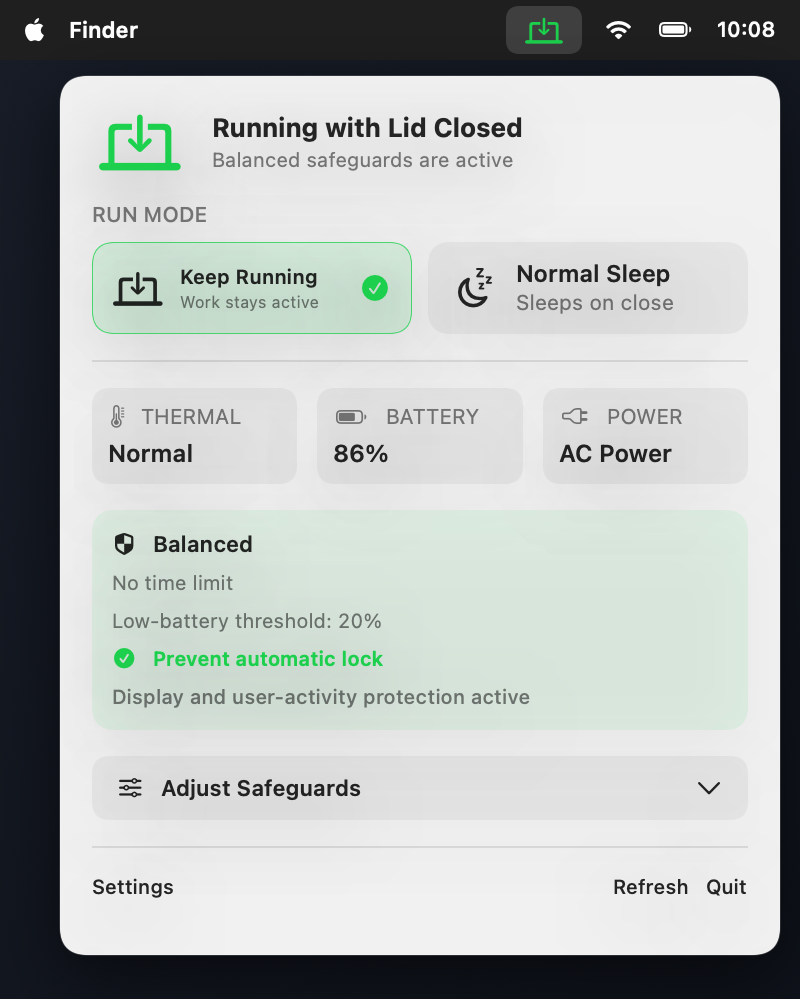
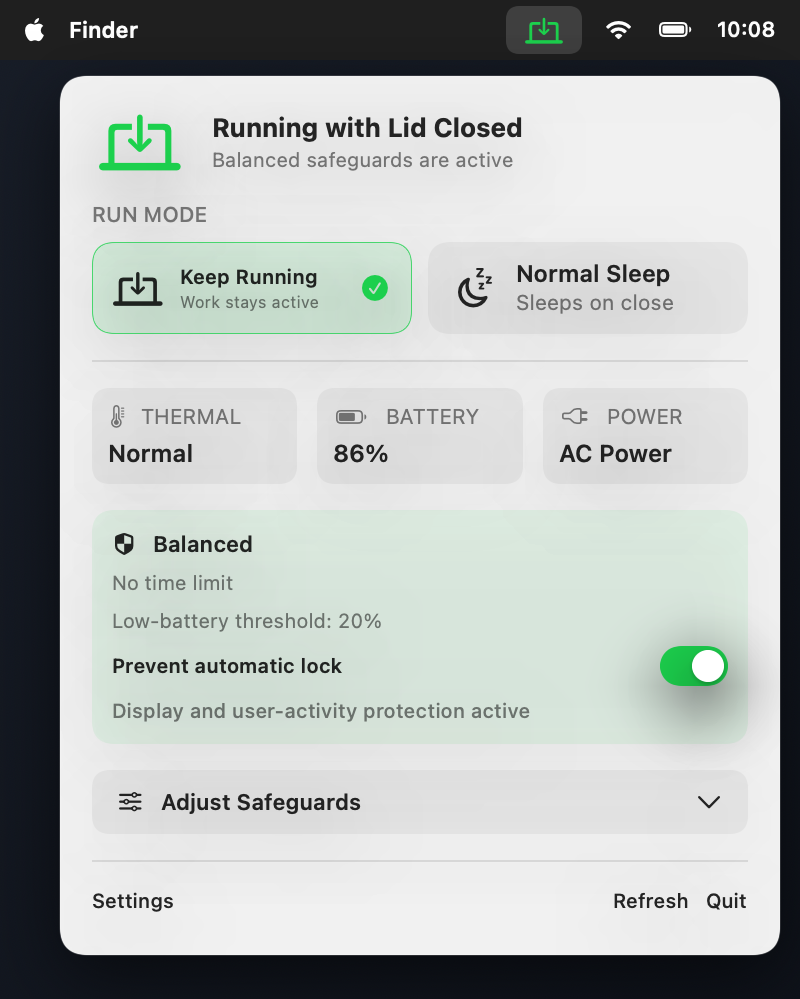
Update automatic lock feature presentation

diff --git a/scripts/render-social-card.swift b/scripts/render-social-card.swift
@@ -4,22 +4,60 @@ import SwiftUI
 private struct FeaturePill: View {
     let icon: String
     let title: String
+    var highlighted = false
 
     var body: some View {
         Label(title, systemImage: icon)
             .font(.system(size: 13, weight: .semibold, design: .rounded))
-            .foregroundStyle(Color.white.opacity(0.82))
+            .foregroundStyle(highlighted ? Color(red: 0.25, green: 1.0, blue: 0.5) : Color.white.opacity(0.82))
             .padding(.horizontal, 14)
             .padding(.vertical, 9)
-            .background(Color.white.opacity(0.08), in: Capsule())
+            .background(
+                highlighted ? Color(red: 0.08, green: 0.82, blue: 0.30).opacity(0.14) : Color.white.opacity(0.08),
+                in: Capsule()
+            )
             .overlay {
-                Capsule().stroke(Color.white.opacity(0.12), lineWidth: 1)
+                Capsule().stroke(
+                    highlighted ? Color(red: 0.12, green: 0.9, blue: 0.36).opacity(0.45) : Color.white.opacity(0.12),
+                    lineWidth: 1
+                )
             }
     }
 }
 
+private struct SocialCardCopy {
+    let headline: String
+    let detail: String
+    let timedRecovery: String
+    let preventAutomaticLock: String
+    let lowBattery: String
+    let thermalSafeguards: String
+    let footer: String
+
+    static let english = SocialCardCopy(
+        headline: "Close the lid.\nKeep the work running.",
+        detail: "Run agents, remote access, builds, and downloads\nwith optional automatic-lock prevention.",
+        timedRecovery: "Timed recovery",
+        preventAutomaticLock: "Prevent auto-lock",
+        lowBattery: "Low battery",
+        thermalSafeguards: "Thermal safeguards",
+        footer: "macOS 13+  ·  Apple Silicon  ·  Public preview"
+    )
+
+    static let chinese = SocialCardCopy(
+        headline: "放心合盖。\n任务继续运行。",
+        detail: "Agent、手机远控、构建和下载不中断，\n并可按需防止自动锁屏。",
+        timedRecovery: "定时恢复",
+        preventAutomaticLock: "防止自动锁屏",
+        lowBattery: "低电量保护",
+        thermalSafeguards: "热状态保护",
+        footer: "macOS 13+  ·  Apple Silicon  ·  Public preview"
+    )
+}
+
 private struct SocialCard: View {
     let screenshot: NSImage
+    let copy: SocialCardCopy
 
     var body: some View {
         ZStack {
@@ -52,7 +90,7 @@ private struct SocialCard: View {
 
                     Spacer().frame(height: 52)
 
-                    Text("Close the lid.\nKeep the work running.")
+                    Text(copy.headline)
                         .font(.system(size: 46, weight: .heavy, design: .rounded))
                         .tracking(-1.2)
                         .foregroundStyle(.white)
@@ -60,8 +98,8 @@ private struct SocialCard: View {
 
                     Spacer().frame(height: 24)
 
-                    Text("Run local agents, remote access, builds,\nand downloads after closing the lid.")
-                        .font(.system(size: 20, weight: .medium, design: .rounded))
+                    Text(copy.detail)
+                        .font(.system(size: 18, weight: .medium, design: .rounded))
                         .foregroundStyle(Color.white.opacity(0.68))
                         .lineSpacing(5)
                         .fixedSize(horizontal: false, vertical: true)
@@ -69,18 +107,22 @@ private struct SocialCard: View {
                     Spacer().frame(height: 32)
 
                     HStack(spacing: 10) {
-                        FeaturePill(icon: "timer", title: "Timed recovery")
-                        FeaturePill(icon: "battery.25percent", title: "Low battery")
+                        FeaturePill(icon: "timer", title: copy.timedRecovery)
+                        FeaturePill(
+                            icon: "lock.open",
+                            title: copy.preventAutomaticLock,
+                            highlighted: true
+                        )
                     }
                     Spacer().frame(height: 10)
                     HStack(spacing: 10) {
-                        FeaturePill(icon: "thermometer.high", title: "Thermal safeguards")
-                        FeaturePill(icon: "iphone.and.arrow.forward", title: "Remote access")
+                        FeaturePill(icon: "battery.25percent", title: copy.lowBattery)
+                        FeaturePill(icon: "thermometer.high", title: copy.thermalSafeguards)
                     }
 
                     Spacer()
 
-                    Text("macOS 13+  ·  Apple Silicon  ·  Public preview")
+                    Text(copy.footer)
                         .font(.system(size: 13, weight: .semibold, design: .rounded))
                         .foregroundStyle(Color.white.opacity(0.42))
                 }
@@ -123,11 +165,19 @@ struct SocialCardRenderer {
     @MainActor
     static func main() throws {
         let root = FileManager.default.currentDirectoryPath
-        let source = "\(root)/docs/assets/lidguard-expanded-en.png"
-        let destination = "\(root)/docs/assets/lidguard-social-card.png"
-        guard let screenshot = NSImage(contentsOfFile: source) else {
+        let englishSource = "\(root)/docs/assets/lidguard-expanded-en.png"
+        let chineseSource = "\(root)/docs/assets/lidguard-expanded.png"
+        guard let englishScreenshot = NSImage(contentsOfFile: englishSource),
+              let chineseScreenshot = NSImage(contentsOfFile: chineseSource) else {
             throw CocoaError(.fileReadNoSuchFile)
         }
-        try render(SocialCard(screenshot: screenshot), to: destination)
+        try render(
+            SocialCard(screenshot: englishScreenshot, copy: .english),
+            to: "\(root)/docs/assets/lidguard-social-card.png"
+        )
+        try render(
+            SocialCard(screenshot: chineseScreenshot, copy: .chinese),
+            to: "\(root)/docs/assets/lidguard-social-card-zh.png"
+        )
     }
 }

diff --git a/scripts/render-readme-screenshots.swift b/scripts/render-readme-screenshots.swift
@@ -341,9 +341,12 @@ private struct ActiveSession: View {
             Text("\(copy.lowBatteryThreshold): \(threshold)%")
                 .font(.caption)
                 .foregroundStyle(.secondary)
-            Label(copy.preventAutomaticLock, systemImage: "checkmark.circle.fill")
-                .font(.caption.weight(.semibold))
-                .foregroundStyle(Palette.green)
+            HStack(spacing: 8) {
+                Text(copy.preventAutomaticLock)
+                    .font(.caption.weight(.semibold))
+                Spacer()
+                EnabledSwitchPreview()
+            }
             Text(copy.automaticLockActive)
                 .font(.caption2)
                 .foregroundStyle(.secondary)
@@ -351,6 +354,21 @@ private struct ActiveSession: View {
         .padding(10)
         .frame(maxWidth: .infinity, alignment: .leading)
         .background(Palette.green.opacity(dark ? 0.11 : 0.08), in: RoundedRectangle(cornerRadius: 10))
+    }
+}
+
+private struct EnabledSwitchPreview: View {
+    var body: some View {
+        Capsule()
+            .fill(Palette.green)
+            .frame(width: 34, height: 20)
+            .overlay(alignment: .trailing) {
+                Circle()
+                    .fill(.white)
+                    .frame(width: 16, height: 16)
+                    .padding(2)
+                    .shadow(color: .black.opacity(0.18), radius: 1, y: 1)
+            }
     }
 }
 

diff --git a/README.md b/README.md
@@ -4,7 +4,7 @@
 
 # LidGuard
 
-**Keep your Mac running with the lid closed, so Codex tasks and remote access from your phone can continue.**
+**Close the lid without stopping your work, and optionally prevent unattended automatic locking during the session.**
 
 [![macOS 13+](https://img.shields.io/badge/macOS-13%2B-111111?logo=apple)](https://github.com/aermin/LidGuard)
 [![Apple Silicon](https://img.shields.io/badge/Apple%20Silicon-arm64-0A84FF)](https://github.com/aermin/LidGuard)
@@ -12,7 +12,7 @@
 [![Tests 22 passing](https://img.shields.io/badge/tests-22%20passing-22C55E)](https://github.com/aermin/LidGuard)
 [![License MIT](https://img.shields.io/badge/license-MIT-2EA44F)](LICENSE)
 
-Menu bar app · Time, battery, and thermal safeguards · CLI · No virtual display · No agent hooks
+Lid-closed operation · Optional automatic-lock prevention · Time, battery, and thermal safeguards · CLI
 
 </div>
 
@@ -20,9 +20,9 @@ Menu bar app · Time, battery, and thermal safeguards · CLI · No virtual displ
   <img src="docs/assets/lidguard-open-laptop-candid.jpg" alt="A developer carrying a partially open laptop on the street so a coding task can keep running" width="560">
 </p>
 
-<p align="center"><sub>Ever carried your Mac like this just to keep a coding task alive? LidGuard lets you close the lid and keep working under timer, battery, and thermal safeguards.</sub></p>
+<p align="center"><sub>Ever carried your Mac like this just to keep a coding task alive? LidGuard lets you close the lid, keep the work running, and optionally prevent unattended automatic locking.</sub></p>
 
-By default, macOS sleeps when the lid closes, interrupting Codex tasks, builds, downloads, and remote access. LidGuard gives you two clear modes and can automatically restore normal sleep when a timer expires, the battery runs low, or macOS reports serious thermal pressure.
+By default, macOS sleeps when the lid closes, interrupting Codex tasks, builds, downloads, and remote access. Even while the Mac remains awake, an automatic screen lock can interrupt unattended remote access. LidGuard manages both boundaries explicitly: lid-close operation for the session, plus optional automatic-lock prevention when requested.
 
 - **Keep Running with Lid Closed**: keeps Codex tasks and other background work running, while supported remote-control software remains available.
 - **Normal Lid Sleep**: restores the default macOS behavior, so the Mac sleeps when the lid closes.
@@ -41,6 +41,9 @@ LidGuard changes lid-close sleep behavior and can optionally prevent automatic s
 3. Try to open LidGuard from Applications. macOS may block it because the preview uses an ad-hoc signature.
 4. Open **System Settings → Privacy & Security**, scroll to **Security**, click **Open Anyway**, authenticate, and confirm **Open**.
 5. In LidGuard, click **Install Helper (`安装 Helper`)** and approve the one-time administrator prompt.
+
+> [!NOTE]
+> The currently published `v1.0.0-preview.1` package predates automatic-lock prevention. Build the current `main` branch from source to use this feature until a `1.1.0` package is published.
 
 Installing the helper also installs the LaunchDaemon and the `lidguard` CLI. After this initial authorization, switching between Keep Running and Normal Sleep does not require an administrator password.
 
@@ -95,9 +98,9 @@ The output is `dist/LidGuard-1.1.0-arm64.dmg`. Local test DMGs use ad-hoc signin
   <img src="docs/assets/lidguard-expanded-en.png" alt="LidGuard menu bar app with the safeguards panel expanded" width="560">
 </p>
 
-<p align="center"><sub>Click the LidGuard menu bar icon to open mode selection, device status, session details, duration, and safeguards.</sub></p>
+<p align="center"><sub>See the current lid-closed session, automatic-lock switch, assertion status, duration, power, battery, and thermal safeguards in one place.</sub></p>
 
-The low-battery threshold can be changed directly in the safeguards panel. Strict uses a fixed 30% threshold, Balanced allows 10%–50%, and Manual exposes the same control when low-battery protection is enabled. Automatic-lock protection is an independent session option and is off by default.
+The low-battery threshold can be changed directly in the safeguards panel. Strict uses a fixed 30% threshold, Balanced allows 10%–50%, and Manual exposes the same control when low-battery protection is enabled. Automatic-lock protection is an independent, opt-in session switch and is off by default.
 
 <table>
   <tr>
@@ -109,7 +112,7 @@ The low-battery threshold can be changed directly in the safeguards panel. Stric
     <td><img src="docs/assets/lidguard-normal-en.png" alt="LidGuard menu bar app in normal lid sleep mode" width="360"></td>
   </tr>
   <tr>
-    <td>Shows the current profile, duration, low-battery threshold, thermal state, and power source.</td>
+    <td>Shows the current profile, duration, low-battery threshold, thermal state, power source, and live automatic-lock protection status.</td>
     <td>Shows a clean idle state and reveals session setup only when requested.</td>
   </tr>
 </table>
@@ -124,7 +127,7 @@ The low-battery threshold can be changed directly in the safeguards panel. Stric
 
 Timed sessions can run for up to 7 days. LidGuard sends a notification 5 minutes before a timed session ends. Low-battery protection applies only while the Mac is running on battery and not charging.
 
-When **Prevent Automatic Lock** is enabled, the helper keeps the display awake and refreshes macOS user activity every 30 seconds. The assertion is released with the same timer, battery, thermal, external-override, stop, and uninstall paths as the lid-closed session.
+When **Prevent Automatic Lock** is enabled, the helper keeps the display awake and refreshes macOS user activity every 30 seconds. The switch can be changed while a session is running. Its assertions are released with the same timer, battery, thermal, external-override, stop, and uninstall paths as the lid-closed session. This option increases power use and does not block explicit user locking or other security actions.
 
 ## CLI
 
